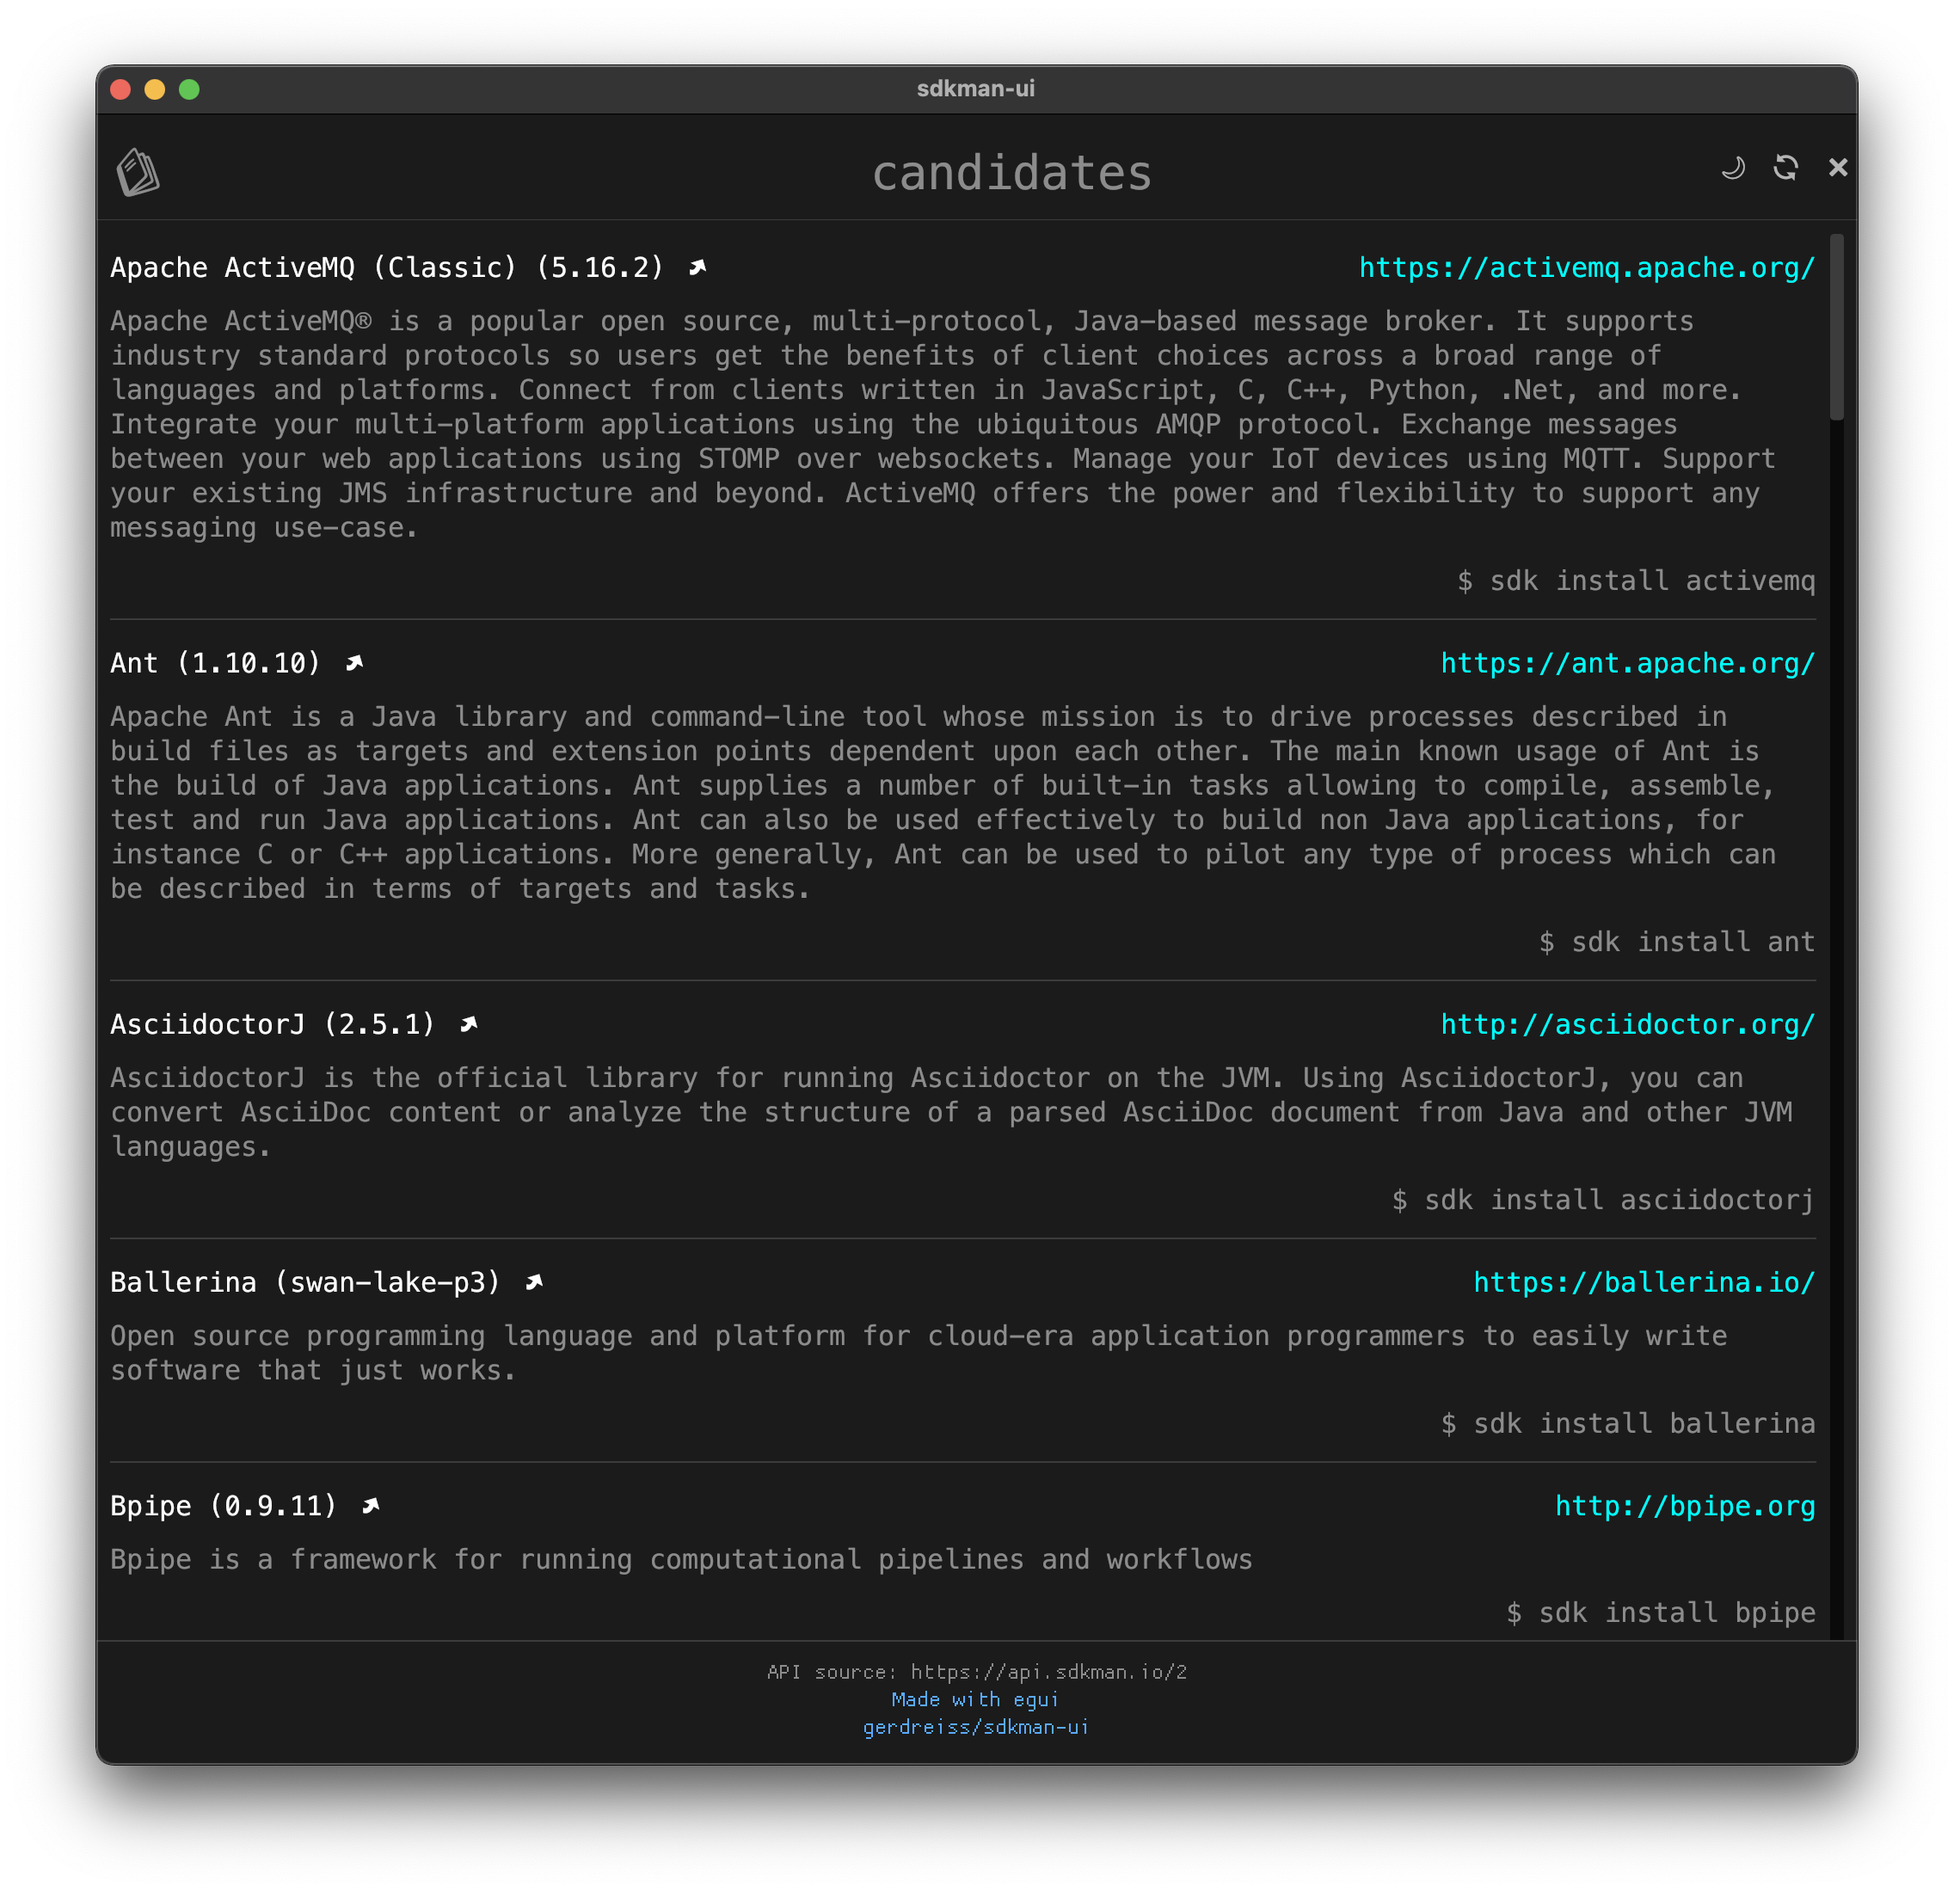
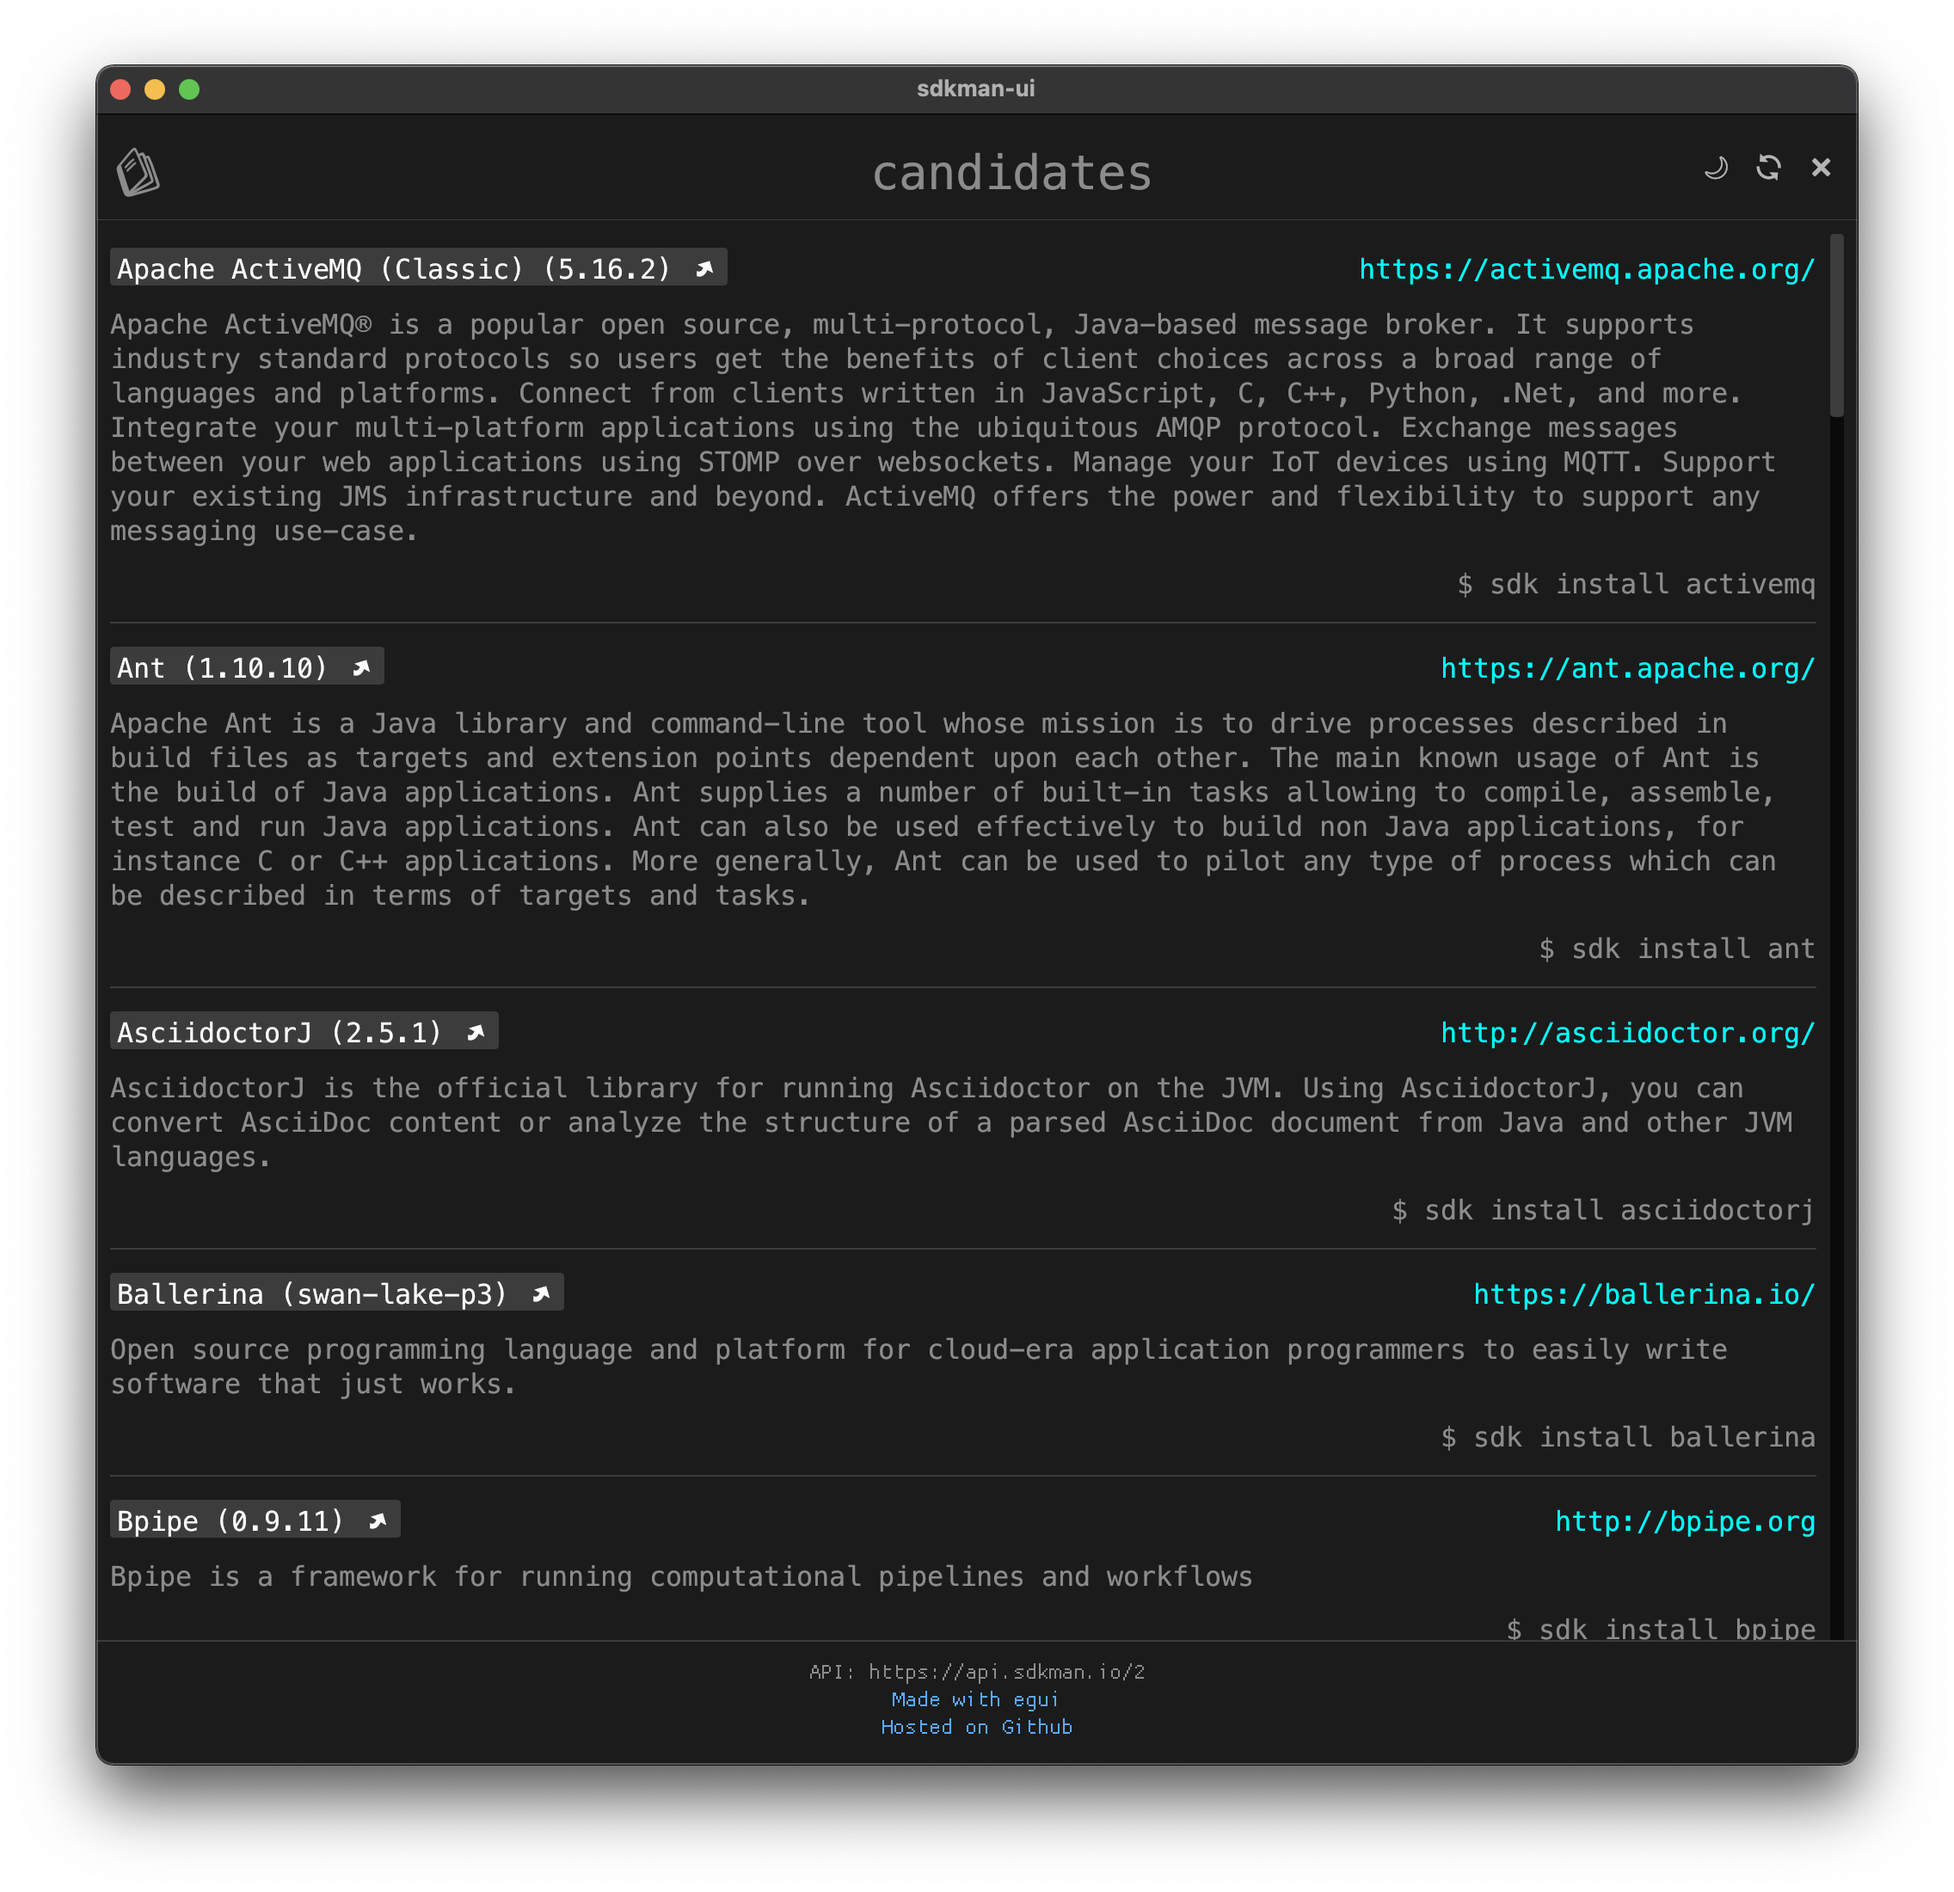
fixed app screenshot

diff --git a/ui/src/candidates.rs b/ui/src/candidates.rs
@@ -207,7 +207,7 @@ impl Candidates {
         TopBottomPanel::bottom("footer").show(ctx, |ui| {
             ui.vertical_centered(|ui| {
                 ui.add_space(10.);
-                ui.add(Label::new("API source: https://api.sdkman.io/2").monospace());
+                ui.add(Label::new("API: https://api.sdkman.io/2").monospace());
                 ui.add(
                     Hyperlink::new("https://github.com/emilk/egui")
                         .text("Made with egui")
@@ -215,7 +215,7 @@ impl Candidates {
                 );
                 ui.add(
                     Hyperlink::new("https://github.com/gerdreiss/sdkman-ui")
-                        .text("gerdreiss/sdkman-ui")
+                        .text("Hosted on Github")
                         .text_style(TextStyle::Monospace),
                 );
                 ui.add_space(10.);
